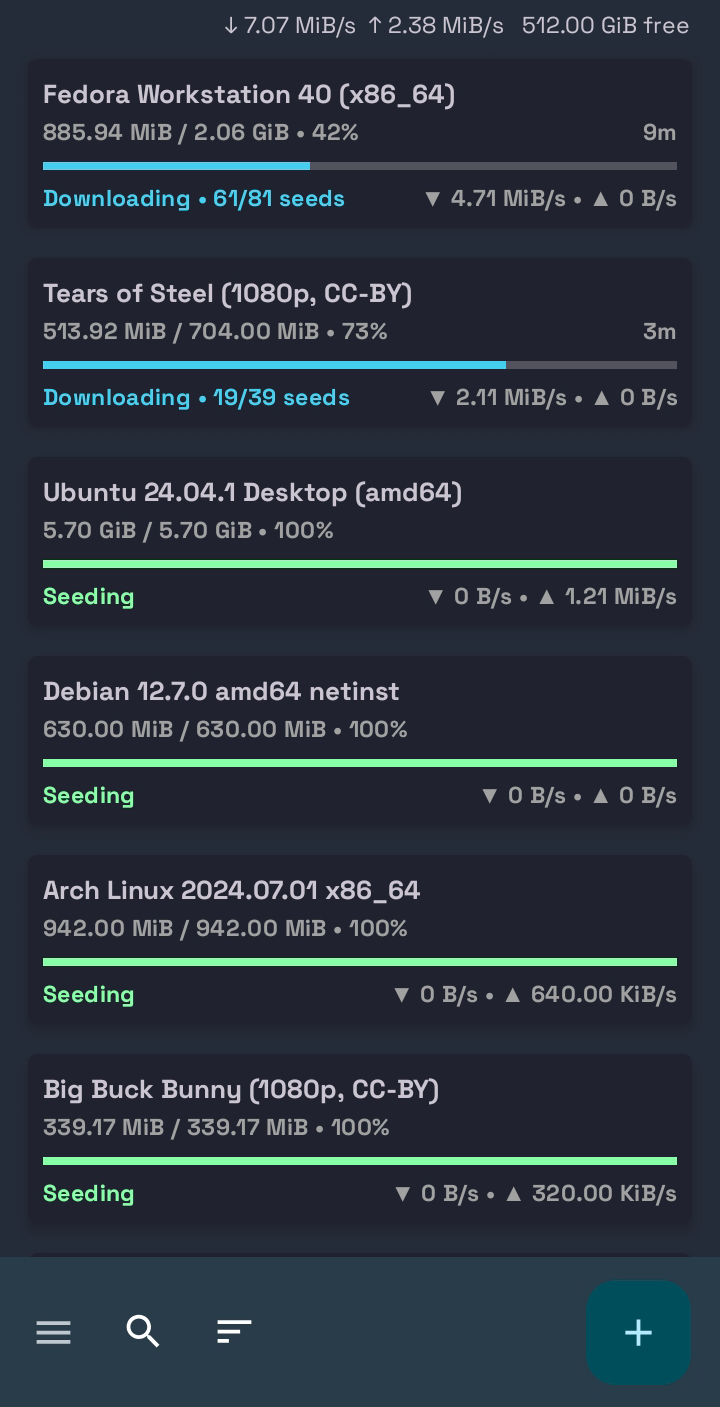
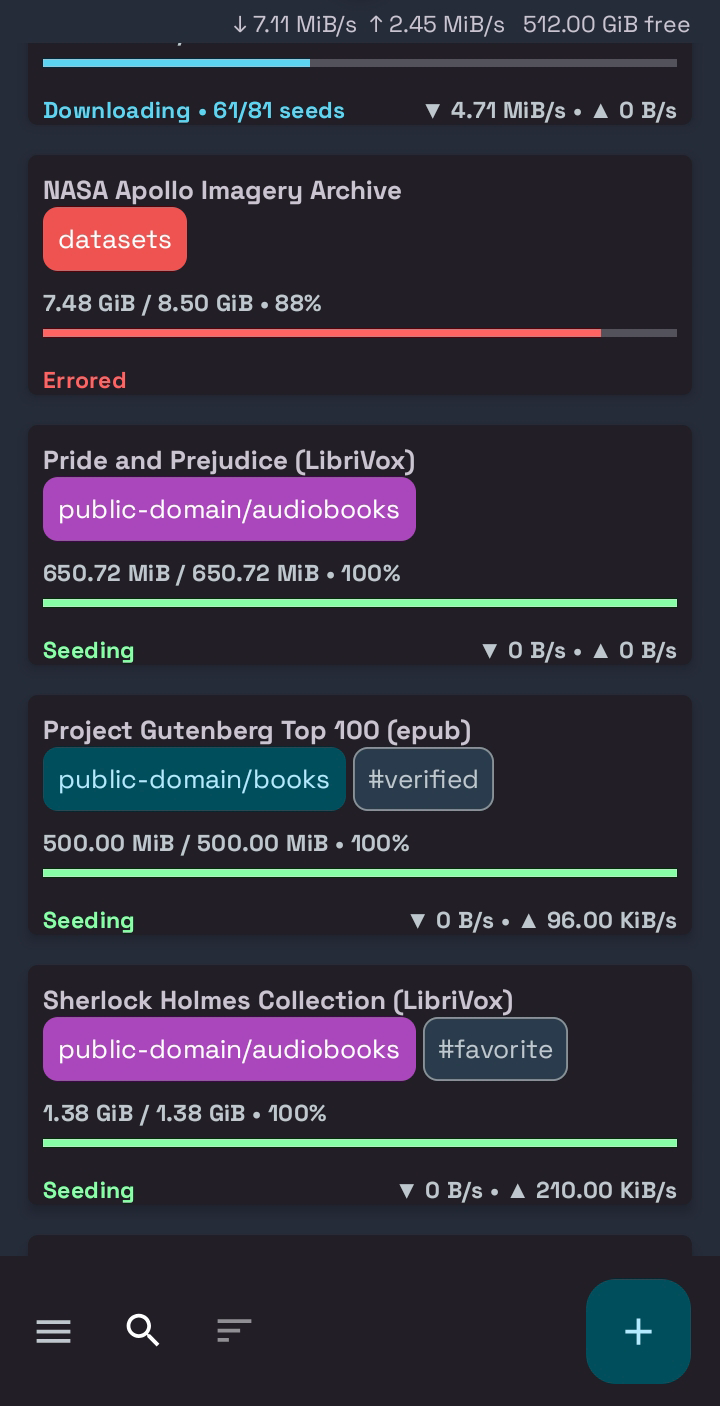
chore: prepare 0.6.0 release
Bump to versionCode 6 / 0.6.0, add the 0.6.0 F-Droid changelog, refresh the
store description and tagline, update the README, and replace the listing
screenshots with the current UI.

diff --git a/README.md b/README.md
@@ -15,30 +15,36 @@ over its Web API — control your self-hosted server from your phone. Written in
 - Categories containing `/` are grouped into a collapsible tree (like folders)
 - Each torrent shows its category and tags as chips, with a customisable colour per category
 - Select multiple torrents to bulk-set category or tags, pause/resume, or delete them in one action
-- Colour-coded status matching the qBittorrent Web UI (downloading, seeding, paused, errored…)
+- Colour-coded status matching the qBittorrent Web UI (downloading, seeding, stopped, errored…)
 
 ### Adding torrents
 - Add via magnet links or `.torrent` files, or open them from other apps
 - Choose a category (pick an existing one or create a new one on the spot), set a save path,
   start paused, or enable Automatic Torrent Management
+- Choose which files to download before adding — the file tree is read instantly from a
+  `.torrent`, or fetched over the network for a magnet
 - Detects duplicates before adding, so you don't re-add a torrent you already have
 
 ### Managing torrents
 - Pause/resume, delete (optionally with data), force recheck, reannounce, and rename
 - Set or create categories, manage tags, toggle Automatic Torrent Management, or change the save path
-- Detail view with Info, Files, Trackers, and Peers tabs — browse the file tree and copy full paths
+- Detail view with Info, Files, Trackers, and Peers tabs — browse the file tree, copy full paths,
+  and set per-file download priorities (or skip files entirely)
 - Surfaces the actual failure reason when a torrent errors, instead of a bare "error"
 
 ### Connection & reliability
 - Works with qBittorrent 4.x and 5.x
 - Optional HTTP Basic Auth for servers behind a reverse proxy
 - Short, readable messages for network errors
-- A persistent status notification showing connection state and current speeds
+- Optional status notification showing connection state and current speeds
 
 ### Servers & settings
 - Save multiple servers and switch the active one from the navigation drawer
 - Manage servers — add, edit, or remove them — from an in-app Settings screen
-- Optional Material You dynamic colours (off by default)
+- Light, Dark, or System theme, plus optional Material You dynamic colours
+- Notifications you control: toggle the ongoing status notification, and opt in to alerts
+  when a download or a force-recheck finishes
+- Encrypted backup — export and import all your servers and settings as a passphrase-protected file
 - About screen with app version and project links
 
 > **Self-signed HTTPS:** certificates are validated properly (no blanket "trust everything"